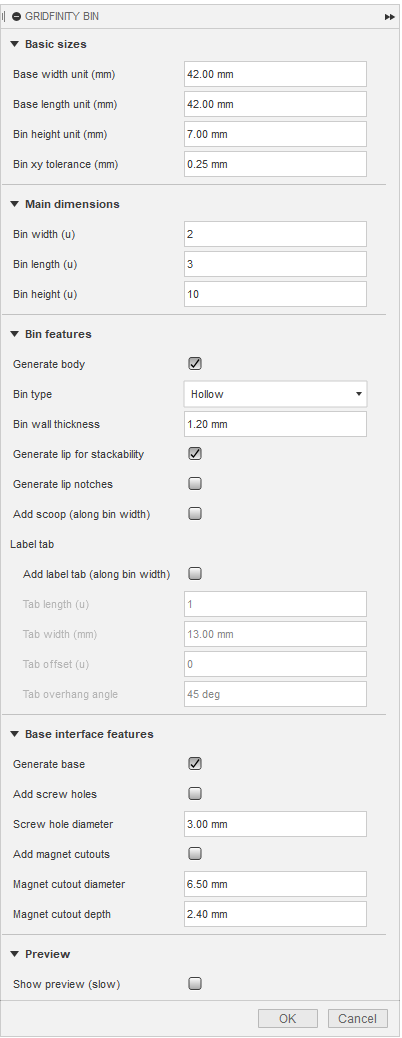
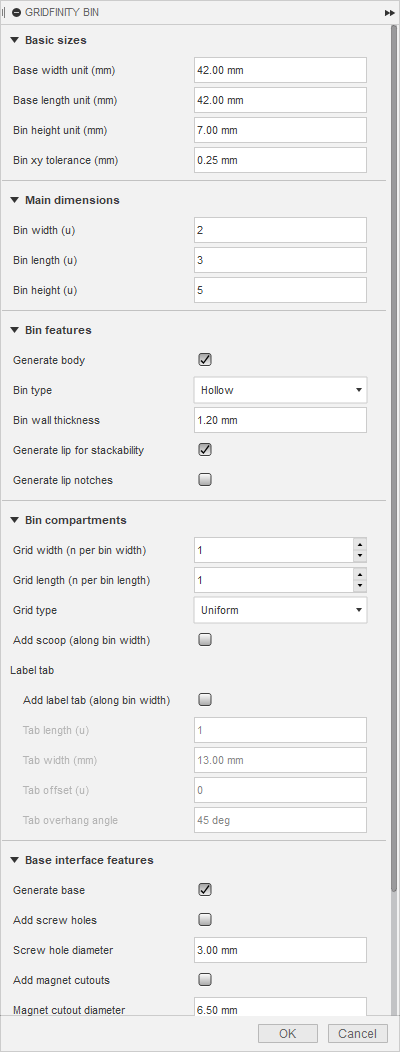
docs: updated readme to include new functionality

diff --git a/README.md b/README.md
@@ -34,9 +34,7 @@ Light | Skeleton with connection holes | Full
 - bin can be shelled with constant wall thickness to save printing time
 - label tab can be generated (length, offset and overhang angle are adjustable)
 - can generate only base or bin body part
-
-Not supported at the moment
-- no compartment walls configuiration available
+- compartments are configurable and can follow uniform grid or setup manually
 
 #### Bin bottom options
 Solid bottom | With screw holes | With magnet cutouts | Combined
@@ -47,6 +45,12 @@ Solid bottom | With screw holes | With magnet cutouts | Combined
 Hollow bin | Shelled bin | Solid bin
 :-------------------------:|:-------------------------:|:-------------------------:
 ![](https://raw.githubusercontent.com/Le0Michine/FusionGridfinityGenerator/master/documentation/assets/hollow-bin.png) | ![](https://raw.githubusercontent.com/Le0Michine/FusionGridfinityGenerator/master/documentation/assets/shelled-bin.png) | ![](https://raw.githubusercontent.com/Le0Michine/FusionGridfinityGenerator/master/documentation/assets/solid-bin.png)
+
+#### Bin compartments options
+Uniform compartments | Custom compartments A | Custom compartments B
+:-------------------------:|:-------------------------:|:-------------------------:
+![](https://raw.githubusercontent.com/Le0Michine/FusionGridfinityGenerator/master/documentation/assets/bin-uniform-compartments-options.png) | ![](https://raw.githubusercontent.com/Le0Michine/FusionGridfinityGenerator/master/documentation/assets/bin-custom-compartments-variant-a-options.png) | ![](https://raw.githubusercontent.com/Le0Michine/FusionGridfinityGenerator/master/documentation/assets/bin-custom-compartments-variant-b-options.png)
+![](https://raw.githubusercontent.com/Le0Michine/FusionGridfinityGenerator/master/documentation/assets/bin-uniform-compartments.png) | ![](https://raw.githubusercontent.com/Le0Michine/FusionGridfinityGenerator/master/documentation/assets/bin-custom-compartments-variant-a.png) | ![](https://raw.githubusercontent.com/Le0Michine/FusionGridfinityGenerator/master/documentation/assets/bin-custom-compartments-variant-b.png)
 
 #### Bin label tab configuration
 Full length | Single slot | With offset
